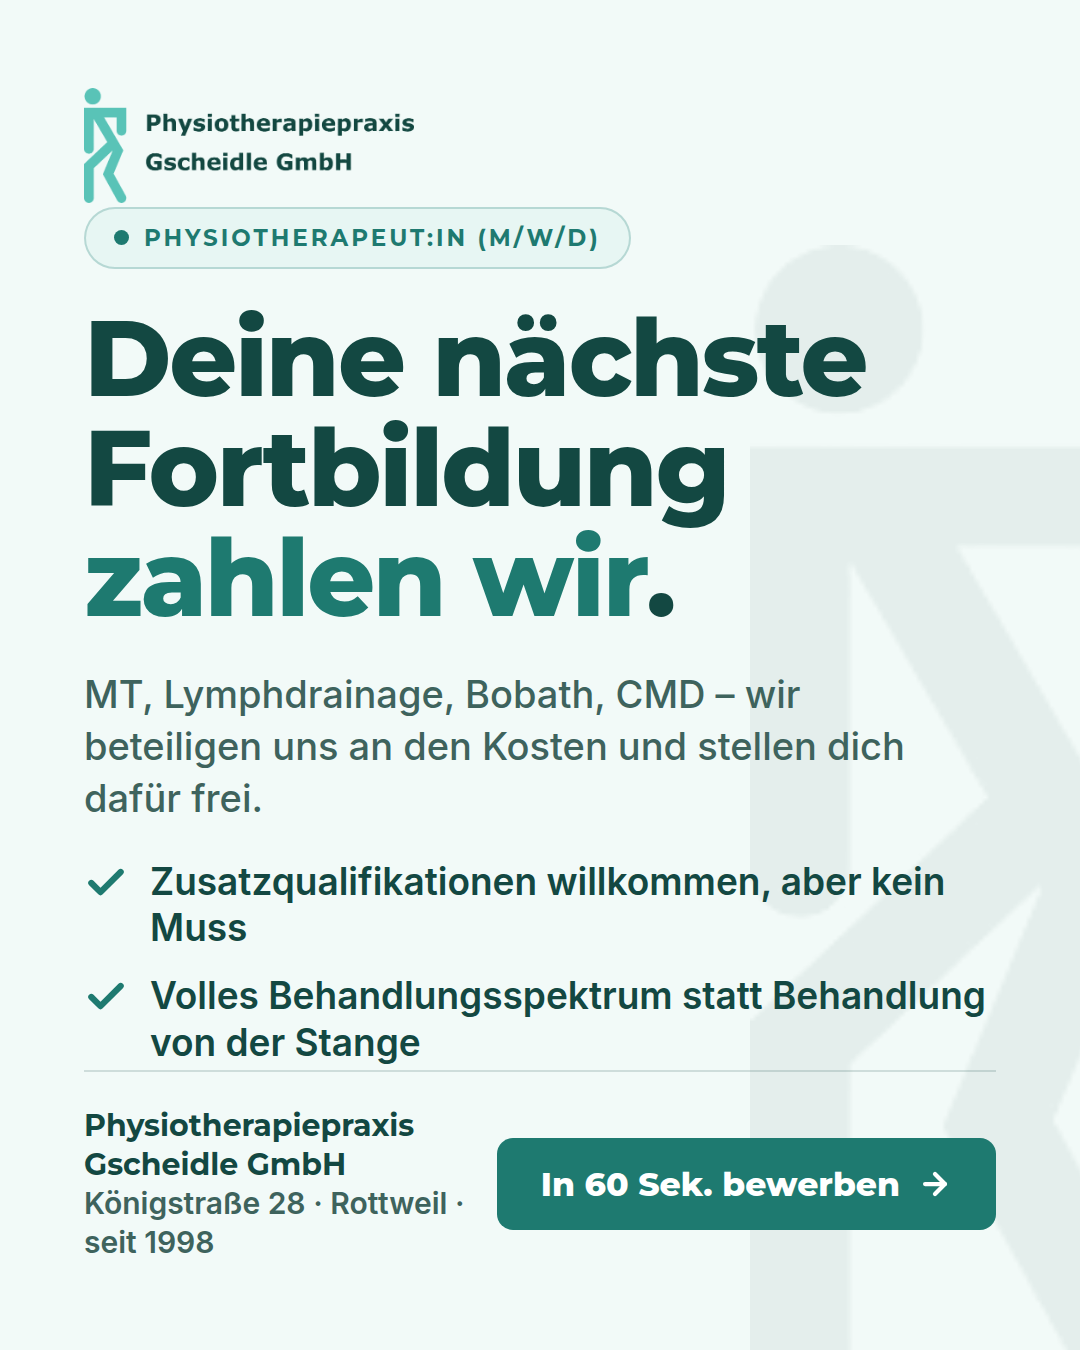
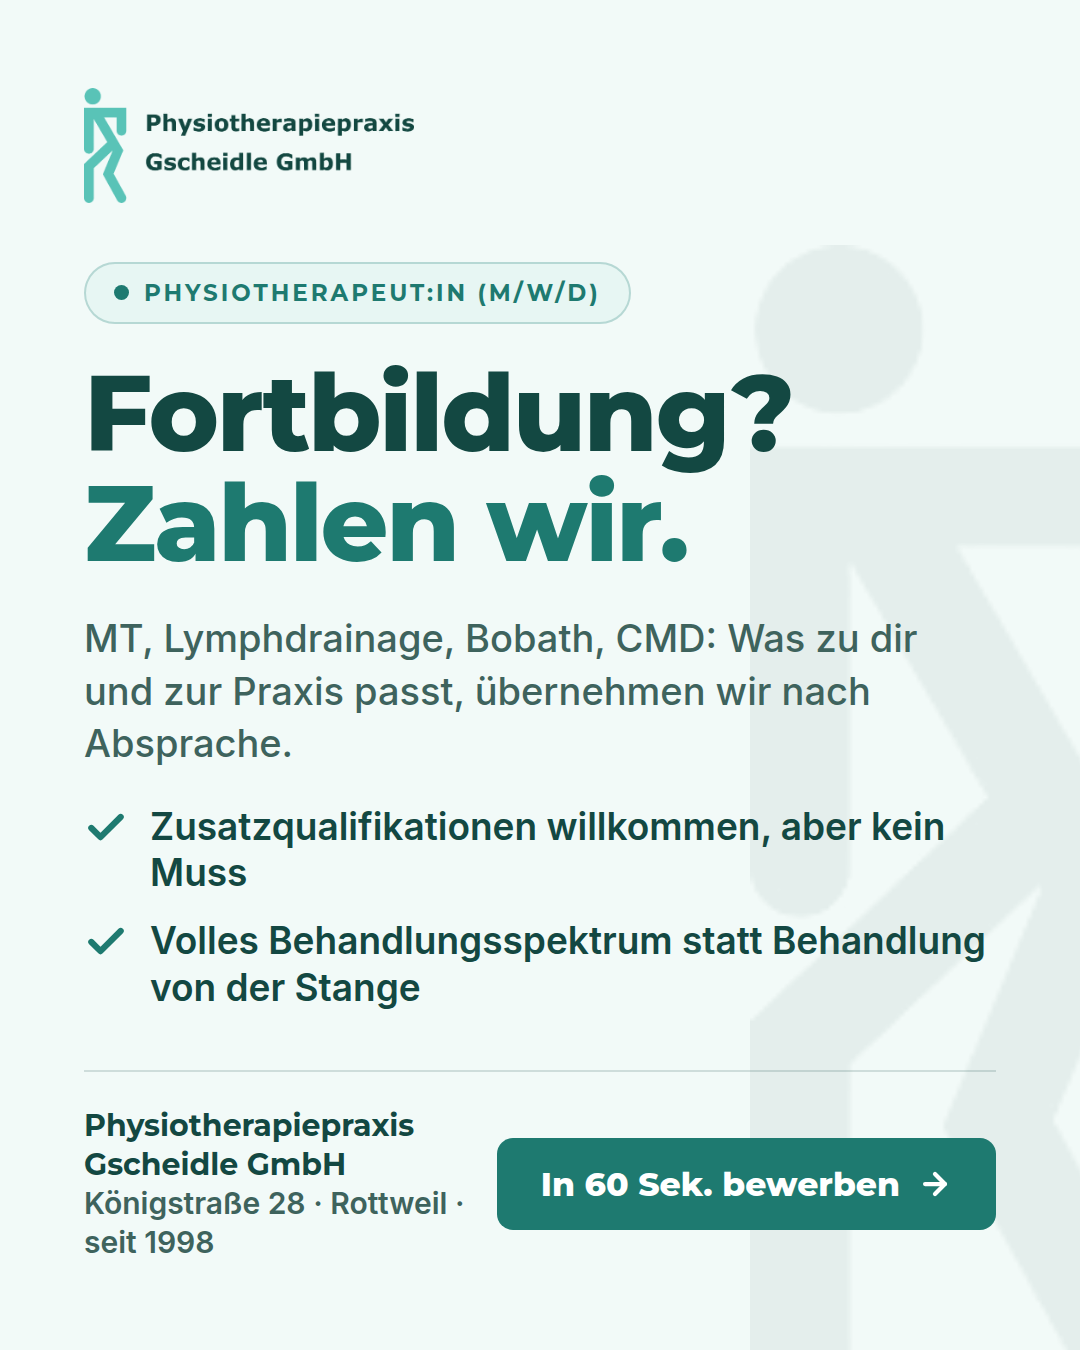
Fortbildungen nach Absprache, Stosswelle als Erfahrung statt Fortbildung
Den Aufgabenpunkt "Je nach Qualifikation auch Kinderbobath, CMD,
Stosswelle, Elektrotherapie, Kinesiotaping und so weiter" entfernt.

Fortbildung ist jetzt durchgaengig als "nach Absprache bezahlt"
formuliert, nicht mehr als pauschale Zusage - in der Benefit-Kachel, im
FAQ, im Hinweis zu Schritt 3 des Formulars, in Meta-Description und
JobPosting sowie im Motiv fortbildung und den Werbetexten.

Die Zusage einer Freistellung fuer Fortbildungen ist raus: sie war nie
bestaetigt und stand nur in meiner Formulierung.

Stosswelle steht jetzt dort, wo sie hingehoert - als wuenschenswerte
Erfahrung im Anforderungsprofil, nicht als Fortbildung. Im
Behandlungsspektrum bleibt sie, das ist eine Leistung der Praxis und
keine Zusage an Bewerber.

Claude-Session: https://claude.ai/code/session_01LtBBjQMCSQX7tc7qtC8CYr

Changed region(s): [[0.0611, 0.1556, 0.9167, 0.8089]]

diff --git a/index.html b/index.html
@@ -5,7 +5,7 @@
 <meta name="viewport" content="width=device-width, initial-scale=1.0, viewport-fit=cover" />
 
 <title>Karriere bei Physiotherapie Gscheidle · Physiotherapeut:in (m/w/d) in Rottweil</title>
-<meta name="description" content="Die Physiotherapiepraxis Gscheidle GmbH in Rottweil sucht eine:n Physiotherapeut:in (m/w/d) in Voll- oder Teilzeit. Unbefristet, keine Wochenenddienste, Fortbildung wird gefördert. Jetzt in unter 60 Sekunden bewerben – ohne Anschreiben." />
+<meta name="description" content="Die Physiotherapiepraxis Gscheidle GmbH in Rottweil sucht eine:n Physiotherapeut:in (m/w/d) in Voll- oder Teilzeit. Unbefristet, keine Wochenenddienste, Fortbildungen nach Absprache bezahlt. Jetzt in unter 60 Sekunden bewerben – ohne Anschreiben." />
 <meta name="robots" content="index, follow, max-image-preview:large" />
 <meta name="theme-color" content="#134842" />
 <meta name="geo.region" content="DE-BW" />
@@ -29,7 +29,7 @@
   "@context": "https://schema.org",
   "@type": "JobPosting",
   "title": "Physiotherapeut:in (m/w/d)",
-  "description": "Die Physiotherapiepraxis Gscheidle GmbH in Rottweil sucht eine:n Physiotherapeut:in (m/w/d) in Voll- oder Teilzeit. Befundaufnahme und eigenverantwortliche Therapieplanung, Behandlung in Krankengymnastik, Manueller Therapie, Manueller Lymphdrainage und so weiter, Hausbesuche nach Absprache. Unbefristete Festanstellung, keine Wochenenddienste, Fortbildungen werden gefördert.",
+  "description": "Die Physiotherapiepraxis Gscheidle GmbH in Rottweil sucht eine:n Physiotherapeut:in (m/w/d) in Voll- oder Teilzeit. Befundaufnahme und eigenverantwortliche Therapieplanung, Behandlung in Krankengymnastik, Manueller Therapie, Manueller Lymphdrainage und so weiter, Hausbesuche nach Absprache. Unbefristete Festanstellung, keine Wochenenddienste, Fortbildungen werden nach Absprache bezahlt.",
   "datePosted": "2026-09-24",
   "employmentType": ["FULL_TIME", "PART_TIME"],
   "hiringOrganization": {
@@ -458,7 +458,6 @@ footer{background:var(--brand-900);color:rgba(255,255,255,.76);padding:56px 0 26
           <ul class="ticks">
             <li><b>Befund und Therapieplan</b> – eigenverantwortlich, am Menschen orientiert, nicht am Schema</li>
             <li>Behandlung in <b>Krankengymnastik, Manueller Therapie, Manueller Lymphdrainage</b> und so weiter</li>
-            <li>Je nach Qualifikation auch <b>Kinderbobath, CMD, Stoßwelle, Elektrotherapie, Kinesiotaping</b> und so weiter</li>
             <li><b>Hausbesuche und Pflegeheime</b> in Rottweil und Umgebung – nach Absprache, nicht als Dauerauftrag. Ein <b>Geschäftswagen</b> dafür lässt sich einrichten</li>
             <li>Kurze fachliche Absprachen im Team statt langer Dienstwege</li>
           </ul>
@@ -469,7 +468,7 @@ footer{background:var(--brand-900);color:rgba(255,255,255,.76);padding:56px 0 26
           <ul class="ticks">
             <li><b>Pflicht:</b> abgeschlossene Ausbildung oder Studium als Physiotherapeut:in mit Berufszulassung in Deutschland</li>
             <li><b>Pflicht:</b> Deutsch mindestens auf Niveau B2 – du führst Patientengespräche und dokumentierst</li>
-            <li><b>Wünschenswert:</b> Zusatzqualifikationen wie MT, MLD, Bobath, KGG oder CMD</li>
+            <li><b>Wünschenswert:</b> Zusatzqualifikationen wie MT, MLD, Bobath, KGG oder CMD – und Erfahrung mit Stoßwellentherapie</li>
             <li><b>Wünschenswert:</b> Führerschein Klasse B für gelegentliche Hausbesuche</li>
             <li>Verlässlichkeit und Lust auf Abwechslung – kein Tag sieht bei uns aus wie der davor</li>
           </ul>
@@ -501,8 +500,8 @@ footer{background:var(--brand-900);color:rgba(255,255,255,.76);padding:56px 0 26
       </div>
       <div class="benefit reveal">
         <div class="benefit__ic"><svg viewBox="0 0 24 24" fill="none" stroke-width="1.8" stroke-linecap="round" stroke-linejoin="round"><path d="M22 10 12 5 2 10l10 5 10-5z"/><path d="M6 12v5c0 1 2.7 2.5 6 2.5s6-1.5 6-2.5v-5"/></svg></div>
-        <b>Fortbildung, die wir zahlen</b>
-        <p>MT, Lymphdrainage, Bobath, CMD: Wir beteiligen uns an den Kosten und stellen dich dafür frei. Deine Qualifikation ist unser Angebot an die Patienten.</p>
+        <b>Fortbildung nach Absprache bezahlt</b>
+        <p>MT, Lymphdrainage, Bobath, CMD: Was zu dir und zur Praxis passt, übernehmen wir nach Absprache. Deine Qualifikation ist unser Angebot an die Patienten.</p>
       </div>
       <div class="benefit reveal">
         <div class="benefit__ic"><svg viewBox="0 0 24 24" fill="none" stroke-width="1.8" stroke-linecap="round" stroke-linejoin="round"><rect x="3" y="4" width="18" height="17" rx="2"/><path d="M16 2v4M8 2v4M3 10h18"/><path d="m9 16 2 2 4-4"/></svg></div>
@@ -621,7 +620,7 @@ footer{background:var(--brand-900);color:rgba(255,255,255,.76);padding:56px 0 26
           <div class="fstep" data-step="3">
             <span class="reqtag reqtag--opt"><i></i>Wünschenswert</span>
             <h3>Welche Zusatzqualifikationen hast du?</h3>
-            <p class="hint">Mehrfachauswahl. Kein Muss – Fortbildungen zahlen wir dir gerne.</p>
+            <p class="hint">Mehrfachauswahl. Kein Muss – Fortbildungen zahlen wir nach Absprache.</p>
             <div class="choice-grid choice-grid--2col" data-field="zusatz" data-type="multi">
               <label class="choice choice--multi"><input type="checkbox" name="zusatz" value="Manuelle Therapie (MT)" data-ok="1" /><span class="key">✓</span><span>Manuelle Therapie</span></label>
               <label class="choice choice--multi"><input type="checkbox" name="zusatz" value="Manuelle Lymphdrainage (MLD)" data-ok="1" /><span class="key">✓</span><span>Lymphdrainage</span></label>
@@ -721,7 +720,7 @@ footer{background:var(--brand-900);color:rgba(255,255,255,.76);padding:56px 0 26
       <details><summary>Brauche ich einen Lebenslauf?</summary><div class="faq__a">Nein. Für die Bewerbung reichen die vier Fragen und deine Kontaktdaten. Alles Weitere besprechen wir im persönlichen Gespräch – Zeugnisse bringst du einfach zum Kennenlernen mit.</div></details>
       <details><summary>Geht die Stelle auch in Teilzeit?</summary><div class="faq__a">Ja. Von rund 20 bis 40 Stunden ist alles möglich. Sag uns im Formular, was du dir vorstellst – wir richten das Pensum nach deiner Situation ein.</div></details>
       <details><summary>Ich habe im Ausland studiert. Kann ich mich bewerben?</summary><div class="faq__a">Ja, sofern deine Anerkennung als Physiotherapeut:in in Deutschland vorliegt oder beantragt ist. Wähle im Formular einfach die passende Antwort aus – wir klären den Rest im Gespräch.</div></details>
-      <details><summary>Brauche ich Zusatzqualifikationen wie MT oder MLD?</summary><div class="faq__a">Nein, Pflicht ist das nicht. Wenn du sie hast, umso besser. Wenn nicht, beteiligen wir uns an den Fortbildungskosten und stellen dich dafür frei.</div></details>
+      <details><summary>Brauche ich Zusatzqualifikationen wie MT oder MLD?</summary><div class="faq__a">Nein, Pflicht ist das nicht. Wenn du sie hast, umso besser. Wenn nicht, übernehmen wir die Kosten einer passenden Fortbildung nach Absprache.</div></details>
       <details><summary>Wie schnell bekomme ich eine Rückmeldung?</summary><div class="faq__a">In der Regel innerhalb weniger Tage, meist telefonisch. Es meldet sich eine echte Person aus der Praxis, keine automatische Mail.</div></details>
       <details><summary>Wer sieht meine Daten?</summary><div class="faq__a">Nur die Praxisleitung der Physiotherapiepraxis Gscheidle GmbH. Deine Angaben werden gemäß Art. 6 Abs. 1 lit. a DSGVO ausschließlich zur Bearbeitung deiner Bewerbung verwendet und nicht an unbefugte Dritte weitergegeben.</div></details>
     </div>

diff --git a/creatives/index.html b/creatives/index.html
@@ -150,8 +150,8 @@ const MOTIVE = [
   {
     name:'fortbildung', theme:'t-light',
     eyebrow:'Physiotherapeut:in (m/w/d)',
-    h1:'Deine nächste Fortbildung <em>zahlen wir</em>.',
-    sub:'MT, Lymphdrainage, Bobath, CMD – wir beteiligen uns an den Kosten und stellen dich dafür frei.',
+    h1:'Fortbildung? <em>Zahlen wir.</em>',
+    sub:'MT, Lymphdrainage, Bobath, CMD: Was zu dir und zur Praxis passt, übernehmen wir nach Absprache.',
     ticks:['Zusatzqualifikationen willkommen, aber kein Muss','Volles Behandlungsspektrum statt Behandlung von der Stange']
   },
   {

diff --git a/creatives/WERBETEXTE.md b/creatives/WERBETEXTE.md
@@ -18,14 +18,14 @@ dazwischenfunkt.
 >
 > ✔ Montag bis Freitag, 07:00–19:00 Uhr – keine Wochenenddienste
 > ✔ Voll- oder Teilzeit, 20 bis 40 Stunden, unbefristet
-> ✔ Fortbildungen wie MT, MLD oder Bobath fördern wir
+> ✔ Fortbildungen wie MT, MLD oder Bobath nach Absprache bezahlt
 > ✔ Geschäftswagen für die Hausbesuche möglich
 >
 > Bewerben dauert unter 60 Sekunden: vier Fragen beantworten, Kontaktdaten hinterlassen, fertig. Kein Anschreiben, kein Lebenslauf.
 
 ### Kurzvariante (für Stories und Reels)
 
-> Physiotherapeut:in (m/w/d) in Rottweil gesucht. Voll- oder Teilzeit, unbefristet, keine Wochenenddienste. Fortbildungen zahlen wir. Bewerben in unter 60 Sekunden – ohne Anschreiben, ohne Lebenslauf.
+> Physiotherapeut:in (m/w/d) in Rottweil gesucht. Voll- oder Teilzeit, unbefristet, keine Wochenenddienste. Fortbildungen nach Absprache bezahlt. Bewerben in unter 60 Sekunden – ohne Anschreiben, ohne Lebenslauf.
 
 ---
 
@@ -35,7 +35,7 @@ dazwischenfunkt.
 
 **Alternativen zum Testen**
 
-- Ohne Wochenenddienste. Mit Fortbildungsbudget.
+- Ohne Wochenenddienste. Fortbildung wird bezahlt.
 - 7 Kolleg:innen – eine:r fehlt noch
 - Bewerben in 60 Sekunden, ohne Lebenslauf
 
@@ -48,7 +48,7 @@ dazwischenfunkt.
 **Alternativen zum Testen**
 
 - Praxis Gscheidle · seit 1998 in Rottweil
-- Mo–Fr, 07–19 Uhr · Fortbildung wird gefördert
+- Mo–Fr, 07–19 Uhr · Fortbildung nach Absprache bezahlt
 
 ---
 

diff --git a/creatives/README.md b/creatives/README.md
@@ -16,7 +16,7 @@ Sie sind damit sofort schaltbar.
 | Konzept | Hook | Fläche |
 |---|---|---|
 | `wochenende` | „Samstag gehört dir." – Mo–Fr, 07–19 Uhr, keine Wochenenddienste | dunkelgrüner Verlauf |
-| `fortbildung` | „Deine nächste Fortbildung zahlen wir." – MT, MLD, Bobath, CMD | helle Fläche |
+| `fortbildung` | „Fortbildung? Zahlen wir." – MT, MLD, Bobath, CMD, nach Absprache | helle Fläche |
 | `sieben` | „7 Kolleg:innen. Eine:r fehlt noch." – Team und Rezeption | Türkis |
 | `ohne-lebenslauf` | „Vier Fragen. Kein Lebenslauf." – Anti-Aufwand, gut fürs Retargeting | dunkelgrüner Verlauf |
 | `zeit-pro-patient` | „Wie viel Zeit bleibt dir pro Patient?" – die Frage, die keiner stellt | helle Fläche |
